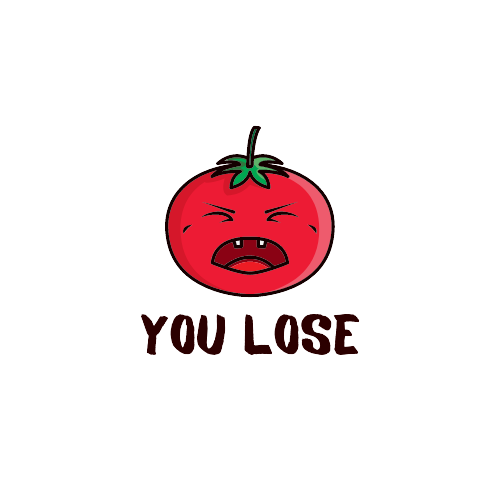
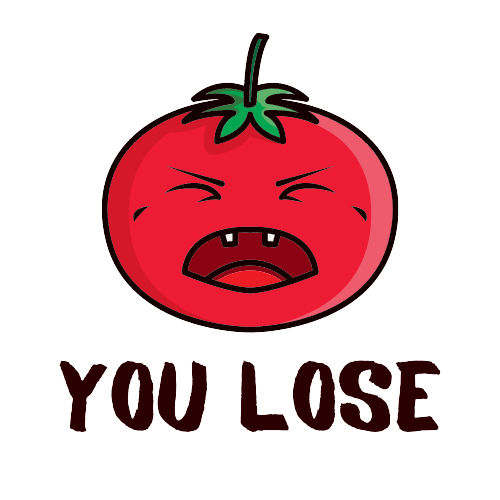
pics, finishScreen updated

Changed region(s): [[0.12, 0.06, 0.9, 0.87]]

diff --git a/PP/src/finishScreen.java b/PP/src/finishScreen.java
@@ -14,11 +14,12 @@ public class finishScreen implements ActionListener {
 	JFrame frame;
 	JPanel contentPane;
 	JButton playAgainButt;
+	JLabel winnerPic;
+	//0 = player, 1 = bot, 2 = tie
 	
-	
-	public void display(/*JFrame frame, gamePanel contentPane*/) {
-		this.frame = frame;
-		this.contentPane = contentPane;
+	public void display(/*JFrame frame, gamePanel contentPane,*/ int winIndex) {
+//		this.frame = frame;
+//		this.contentPane = contentPane;
 		
 		frame = new JFrame();
 		frame.setDefaultCloseOperation(JFrame.EXIT_ON_CLOSE);
@@ -28,7 +29,13 @@ public class finishScreen implements ActionListener {
 		frame.pack();
 		frame.setVisible(true);
 		
-		
+		if (winIndex == 0) {
+			winnerPic = new JLabel(new ImageIcon(getClass().getClassLoader().getResource("youWin.png")));
+		} else if (winIndex == 1) {
+			winnerPic = new JLabel(new ImageIcon(getClass().getClassLoader().getResource("youLose.png")));
+		} else if (winIndex == 2) {
+			winnerPic = new JLabel(new ImageIcon(getClass().getClassLoader().getResource("ppLogo.png")));
+		}
 		
 		contentPane.setLayout(null);
 		
